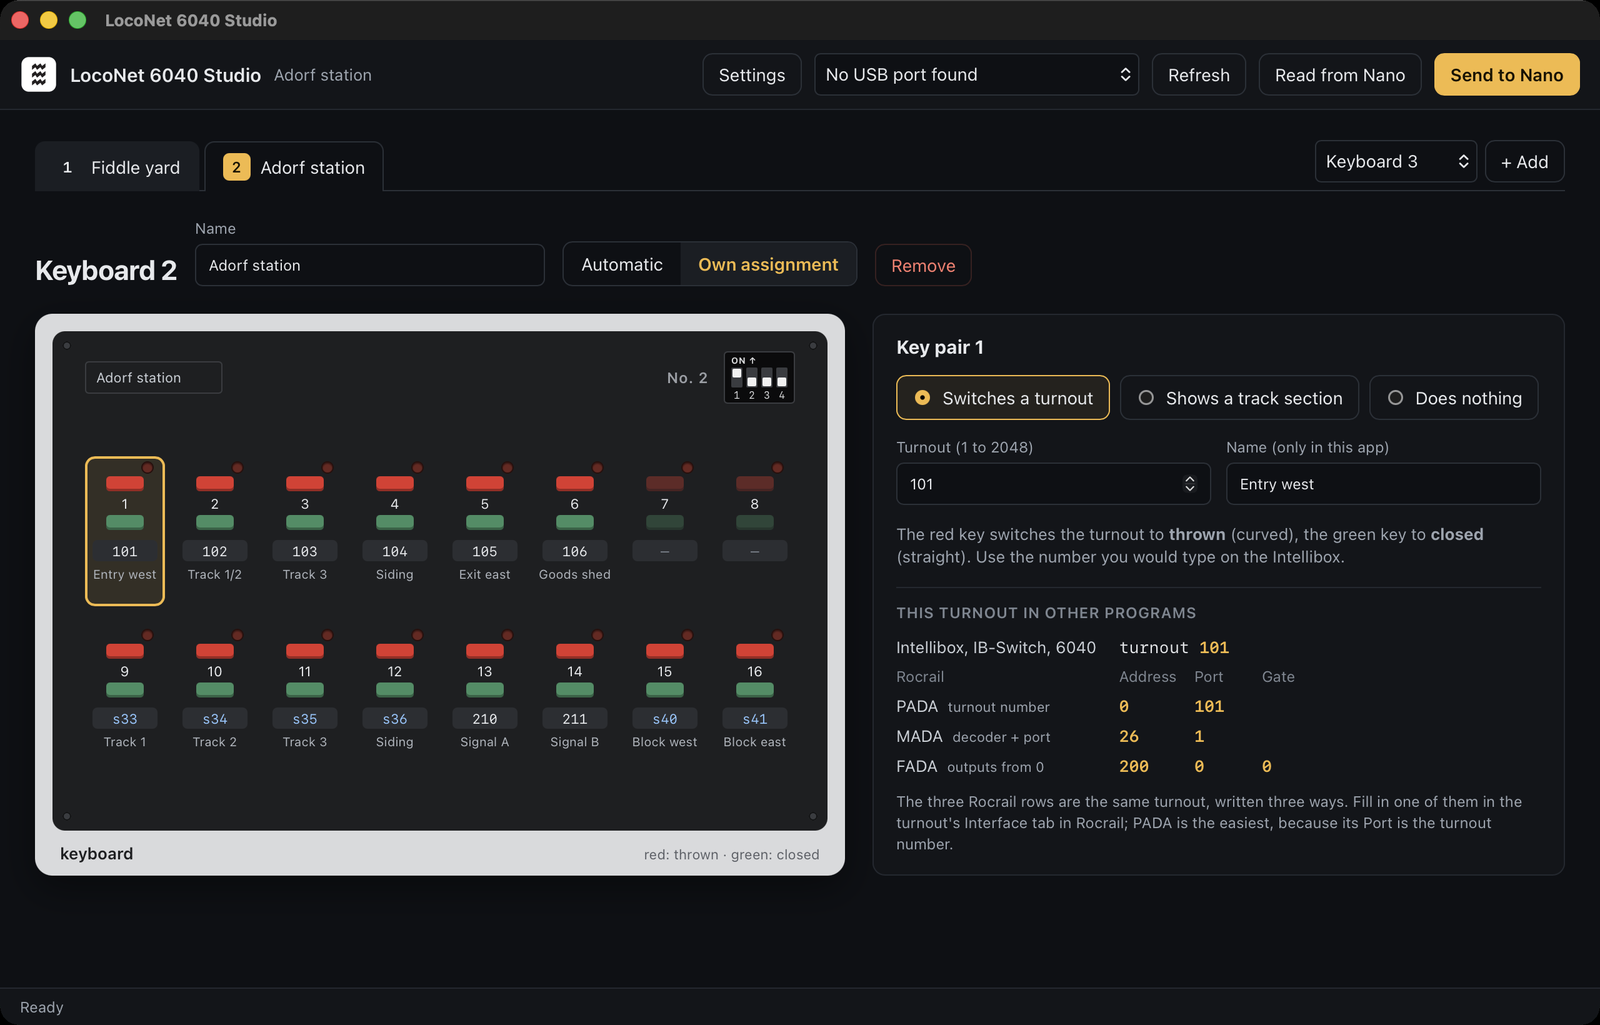
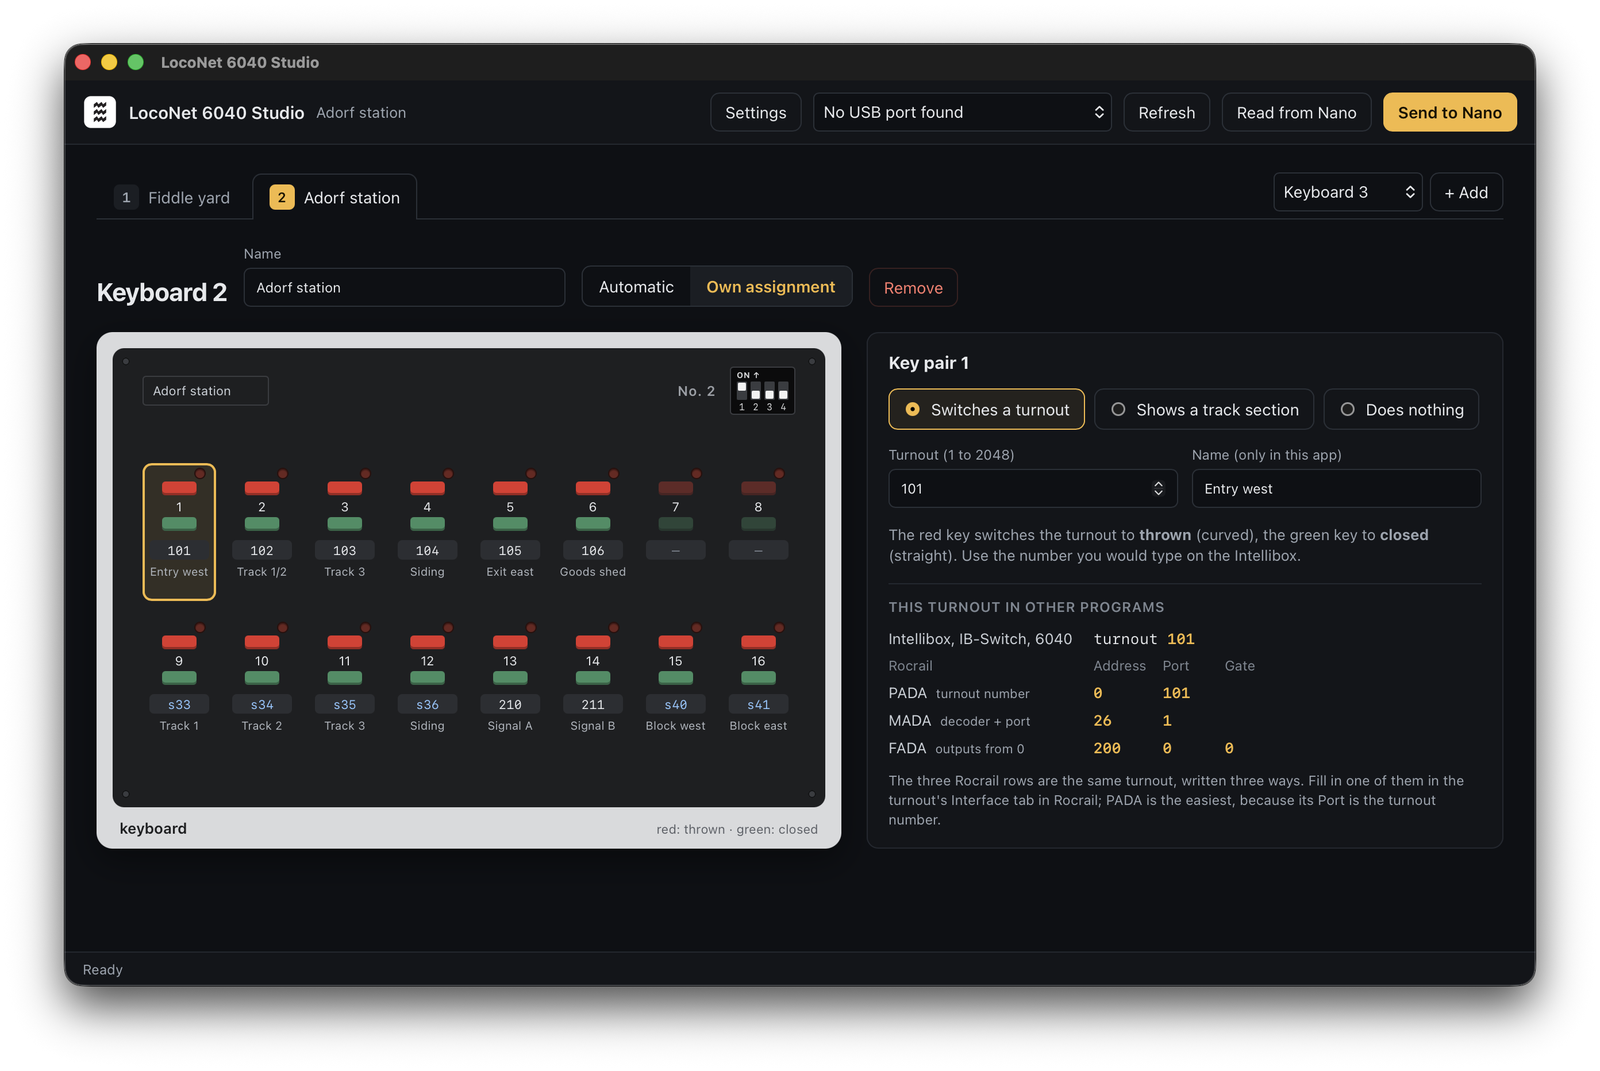
Marklin-6040-LocoNet: more LocoNet 6040 Studio screenshots in the README
A track section and the Settings window next to the main view, with
captions.

diff --git a/Marklin-6040-LocoNet/README.md b/Marklin-6040-LocoNet/README.md
@@ -42,6 +42,13 @@ arduino-cli upload --fqbn arduino:avr:nano:cpu=atmega328old -p /dev/cu.usbserial
 
 [![LocoNet 6040 Studio](docs/loconet-6040-studio.png)](https://github.com/CuriousTimo/LocoNet-6040-Studio)
 
+| | |
+| --- | --- |
+| [![A key pair that shows a track section](docs/loconet-6040-studio-track-section.png)](https://github.com/CuriousTimo/LocoNet-6040-Studio) | [![The settings of the Nano](docs/loconet-6040-studio-settings.png)](https://github.com/CuriousTimo/LocoNet-6040-Studio) |
+| A key pair that shows a track section: red while a train is there, green when the track is free. | The settings of the Nano, each with a plain explanation. |
+
+Each Keyboard is drawn as it looks, with its red LEDs and the four switches on its back set for its number. For every turnout the Studio also shows how Rocrail writes it (PADA, MADA and FADA).
+
 The rest of this section describes the other way: typing commands on the Serial Monitor of the Arduino IDE.
 
 You set up the Keyboards from your computer, with the USB cable that is also used to load the program onto the Nano. You only need to do this once: the Nano remembers everything, also when the power is off and when a newer version of the program is loaded.
